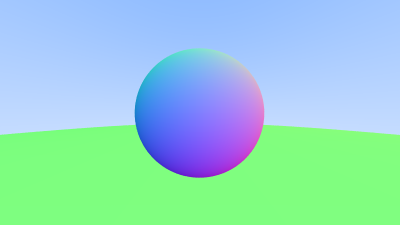
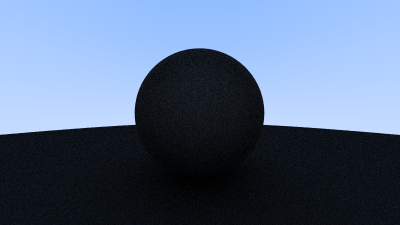
Add simple diffuse material for sphere

diff --git a/src/Main.cpp b/src/Main.cpp
@@ -16,15 +16,21 @@
 #include <iostream>
 #include <filesystem>
 
-Vec3 colorFromRay(const Ray &r, const Hittable &world) {
-  Vec3 white{1, 1, 1};
-  Vec3 blue{0.5, 0.7, 1};
+Vec3 colorFromRay(const Ray &r, const Hittable &world, int depth) {
+  // If exceeded ray bounce limit, no more light is gathered
+  if (depth <= 0) {
+    Vec3 black{0, 0, 0};
+    return black;
+  }
 
   HitRecord record = world.raycast(r, 0, Math::infinity);
   if (record.hitAnything) {
-    return 0.5 * (record.faceNormal + Vec3{1, 1, 1});
+    Vec3 target = record.hitPoint + record.faceNormal + Vec3::randomInsideUnitSphere();
+    return 0.5 * colorFromRay(Ray{record.hitPoint, target - record.hitPoint}, world, depth-1);
   }
 
+  Vec3 white{1, 1, 1};
+  Vec3 blue{0.5, 0.7, 1};
   auto unitDirection = r.direction.normalized();
   auto t = 0.5 * (unitDirection.y + 1);
   return (1-t)*white + t*blue;
@@ -38,6 +44,7 @@ int main(int argc, char *argv[]) {
   const int imageHeight = static_cast<int>(imageWidth / aspectRatio);
   const int numChannels = 3;
   const int samplesPerPixel = 100;
+  const int maxDepth = 50;
   unsigned char pixels[imageWidth * imageHeight * numChannels];
 
   // World
@@ -60,7 +67,7 @@ int main(int argc, char *argv[]) {
         auto u = (col + Math::randomDouble()) / (imageWidth - 1.0);
         auto v = (row + Math::randomDouble()) / (imageHeight - 1.0);
         Ray r = cam.rayFromViewportPoint(u, v);
-        pixelColor += colorFromRay(r, world);
+        pixelColor += colorFromRay(r, world, maxDepth);
       }
 
       pixelColor /= samplesPerPixel;

diff --git a/src/Vec3.cpp b/src/Vec3.cpp
@@ -1,4 +1,5 @@
 #include "Vec3.hpp"
+#include "Utils.hpp"
 
 // ---------- VEC3 CLASS ----------
 
@@ -7,6 +8,27 @@ const Vec3 Vec3::ZERO{0, 0, 0};
 Vec3::Vec3() : e{0, 0, 0} {}
 Vec3::Vec3(double x, double y, double z) : e{x, y, z} {}
 Vec3::Vec3(const Vec3 &v) : e{v.x, v.y, v.z} {}
+
+
+Vec3 Vec3::random() {
+  return Vec3{Math::randomDouble(), Math::randomDouble(), Math::randomDouble()};
+}
+Vec3 Vec3::random(const double min, const double max) {
+  return Vec3{
+    Math::randomDouble(min, max),
+    Math::randomDouble(min, max),
+    Math::randomDouble(min, max)
+  };
+}
+Vec3 Vec3::randomInsideUnitSphere() {
+  while (true) {
+    auto point = Vec3::random(-1, 1);
+    if (point.lengthSq() < 1) {
+      return point;
+    }
+  }
+}
+
 
 double Vec3::lengthSq() const {
   return x*x + y*y + z*z;

diff --git a/include/Vec3.hpp b/include/Vec3.hpp
@@ -23,6 +23,10 @@ class Vec3 {
   Vec3(double x, double y, double z);
   Vec3(const Vec3 &v);
 
+  static Vec3 random();
+  static Vec3 random(const double min, const double max);
+  static Vec3 randomInsideUnitSphere();
+
   double lengthSq() const;
   double length() const;
   double dot(const Vec3 &v) const;
